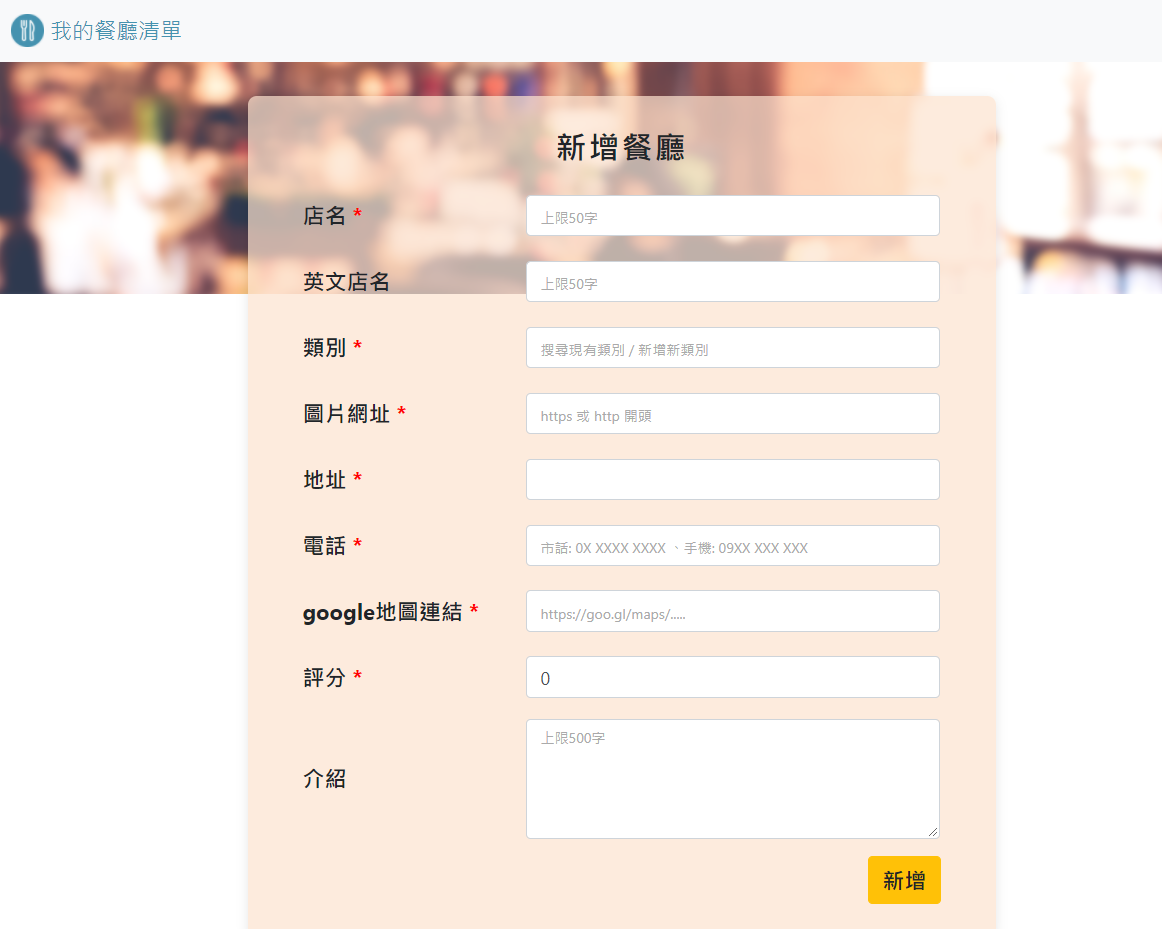
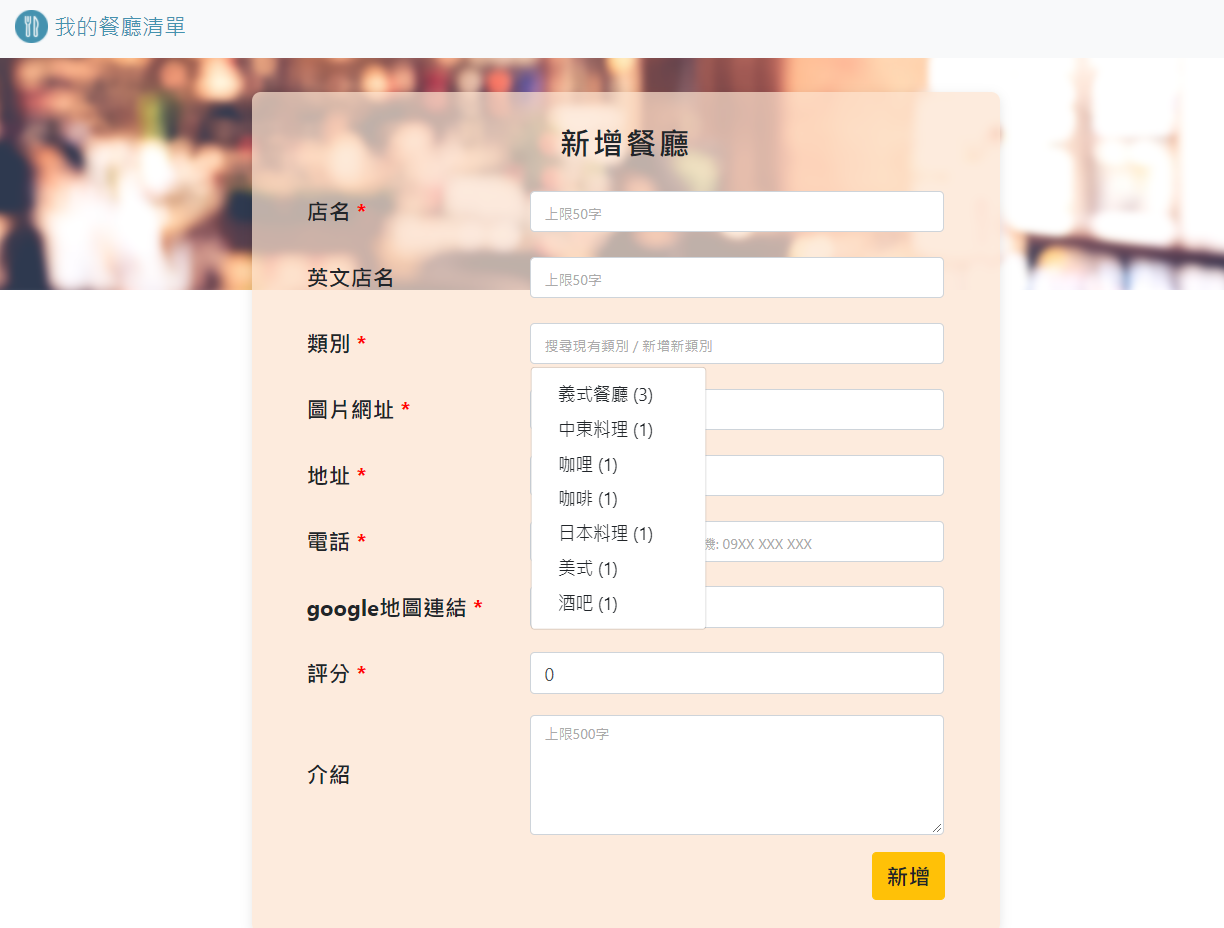
doc: add English version README file

diff --git a/README.md b/README.md
@@ -1,20 +1,25 @@
-# 餐廳美食清單
-透過Express建立的簡易餐廳清單，幫助使用者快速查找餐廳，即刻預約享用美食~
+# Restaurant List
+A web app built by Express.js to help users collect and search for restaurants they like.![screenshot](./index_page_screenshot.png)
 
-![screenshot](./index_page_screenshot.png)
+## Features
+* Browsing all restaurants on home page
 
-## 功能描述
-* 在首頁快速瀏覽所有餐廳
+* Clicking on certain restaurant name or image to check detail info, such as address, phone number and description
 
-* 點擊餐廳圖卡，查看更多詳細資訊，包含: 地址、電話、簡介等
+* Searching restaurants by Chinsese name ,English name or category
 
-* 搜尋餐廳中英名稱、類別
+* Sorting restaurants by name, category, ratings
 
-* 新增餐廳資料
+* Creating or Editing restaurants data
 
-* 編輯餐廳資料
+  * Categoric field: searching existing categories or creating new one
+    * Clicking on input field to expand category dropdown list, which 
+    * The category dropdown list contains category name and nubmers of restaurants belong to each category, and is sorted by numbers of restaurants and category name
+    * Entering keywords and the dropdown list will automatically filter and show related categories
+    * Users can also directly input new category, and the system will create new category in the database after form submission and validation
+  * When submitted, the form input will go through  client-end and server-end validation before beigning stored into the data base.
 
-* 刪除餐廳資料 (刪除前會先跳出確認視窗，確認後才會刪除)
+* Deleting specific restaurant data by clicking on delete button, and  a confirm modal will popup before the deletion.
 
   ![新增](./add_restaurant_screenshot.png)
 
@@ -30,9 +35,9 @@
 * mongoose: 5.10.7
 
 ## 使用方式
-1. 在terminal 輸入` git clone https://github.com/Kaikai8888/restaurant_list_2.git `，下載專案資料夾 
-2. 透過robo 3T操作mongoDB， 與本機 `localhost: 27017`建立連線，並建立名稱為`restaurant-list`的資料庫
-3. 在terminal 輸入 `npm run seed`，透過 nodemon 執行 restaurantSeeder.js，建立種子資料
-4. 在terminal 輸入 `npm run dev`，透過 nodemon 執行 app.js，建立資料庫連線，並啟動local server監聽 
-5. 在瀏覽器網址輸入 http://localhost:3000，進入網站
+1. Enter ` git clone https://github.com/Kaikai8888/restaurant_list_2.git ` in the terminal to download the project folder
+2. Use robo 3T to manipulate mongoDB, create connection to `localhost: 27017`, and create the database,`restaurant-list`
+3. Enter `npm run seed` in the terminal to to run restaurantSeeder.js with nodemon and create seed data
+4. Enter `npm run dev` in the terminal to run app.js with nodemon to set up database connection and start  local server 
+5. Enter http://localhost:3000 in the brower and enter the website
 

diff --git a/README-CH.md b/README-CH.md
@@ -1,0 +1,44 @@
+# 餐廳美食清單
+透過Express建立的簡易餐廳清單，幫助使用者快速查找餐廳，即刻預約享用美食~
+
+![screenshot](./index_page_screenshot.png)
+
+## 功能描述
+* 在首頁快速瀏覽所有餐廳
+
+* 點擊餐廳圖卡，查看更多詳細資訊，包含: 地址、電話、簡介等
+
+* 搜尋餐廳中英名稱、類別
+
+* 依照店名、類別或評分進行排序
+
+* 新增/編輯餐廳資料
+
+  * 類別欄位: 可搜尋既有類別或建立新類別
+    * 點選輸入框，可展開既有類別下拉式選單，選單上有標註類別下的餐廳數量，並依照數量、類別名稱排序
+    * 可在輸入框輸入類別關鍵字搜尋相關類別，下拉式選會自動進行篩選
+    * 也可以直接輸入新類別，送出表單時會自動建立新類別
+  * 送出表單後會經過client及server端雙重驗證後，再存入資料庫
+
+* 刪除餐廳資料 (刪除前會先跳出確認視窗，確認後才會刪除)
+
+  ![新增](./add_restaurant_screenshot.png)
+
+## 環境建置需求
+* Node.js: v10.15.0
+* npm: 6.4.1
+* nodemon: 2.0.4
+* express: 4.17.1
+* express-handlebars: 5.1.0
+* body-parser: 1.19.0
+* mongoDB: 4.2.9
+* robo 3T: 1.4.1
+* mongoose: 5.10.7
+
+## 使用方式
+1. 在terminal 輸入` git clone https://github.com/Kaikai8888/restaurant_list_2.git `，下載專案資料夾 
+2. 透過robo 3T操作mongoDB， 與本機 `localhost: 27017`建立連線，並建立名稱為`restaurant-list`的資料庫
+3. 在terminal 輸入 `npm run seed`，透過 nodemon 執行 restaurantSeeder.js，建立種子資料
+4. 在terminal 輸入 `npm run dev`，透過 nodemon 執行 app.js，建立資料庫連線，並啟動local server監聽 
+5. 在瀏覽器網址輸入 http://localhost:3000，進入網站
+
